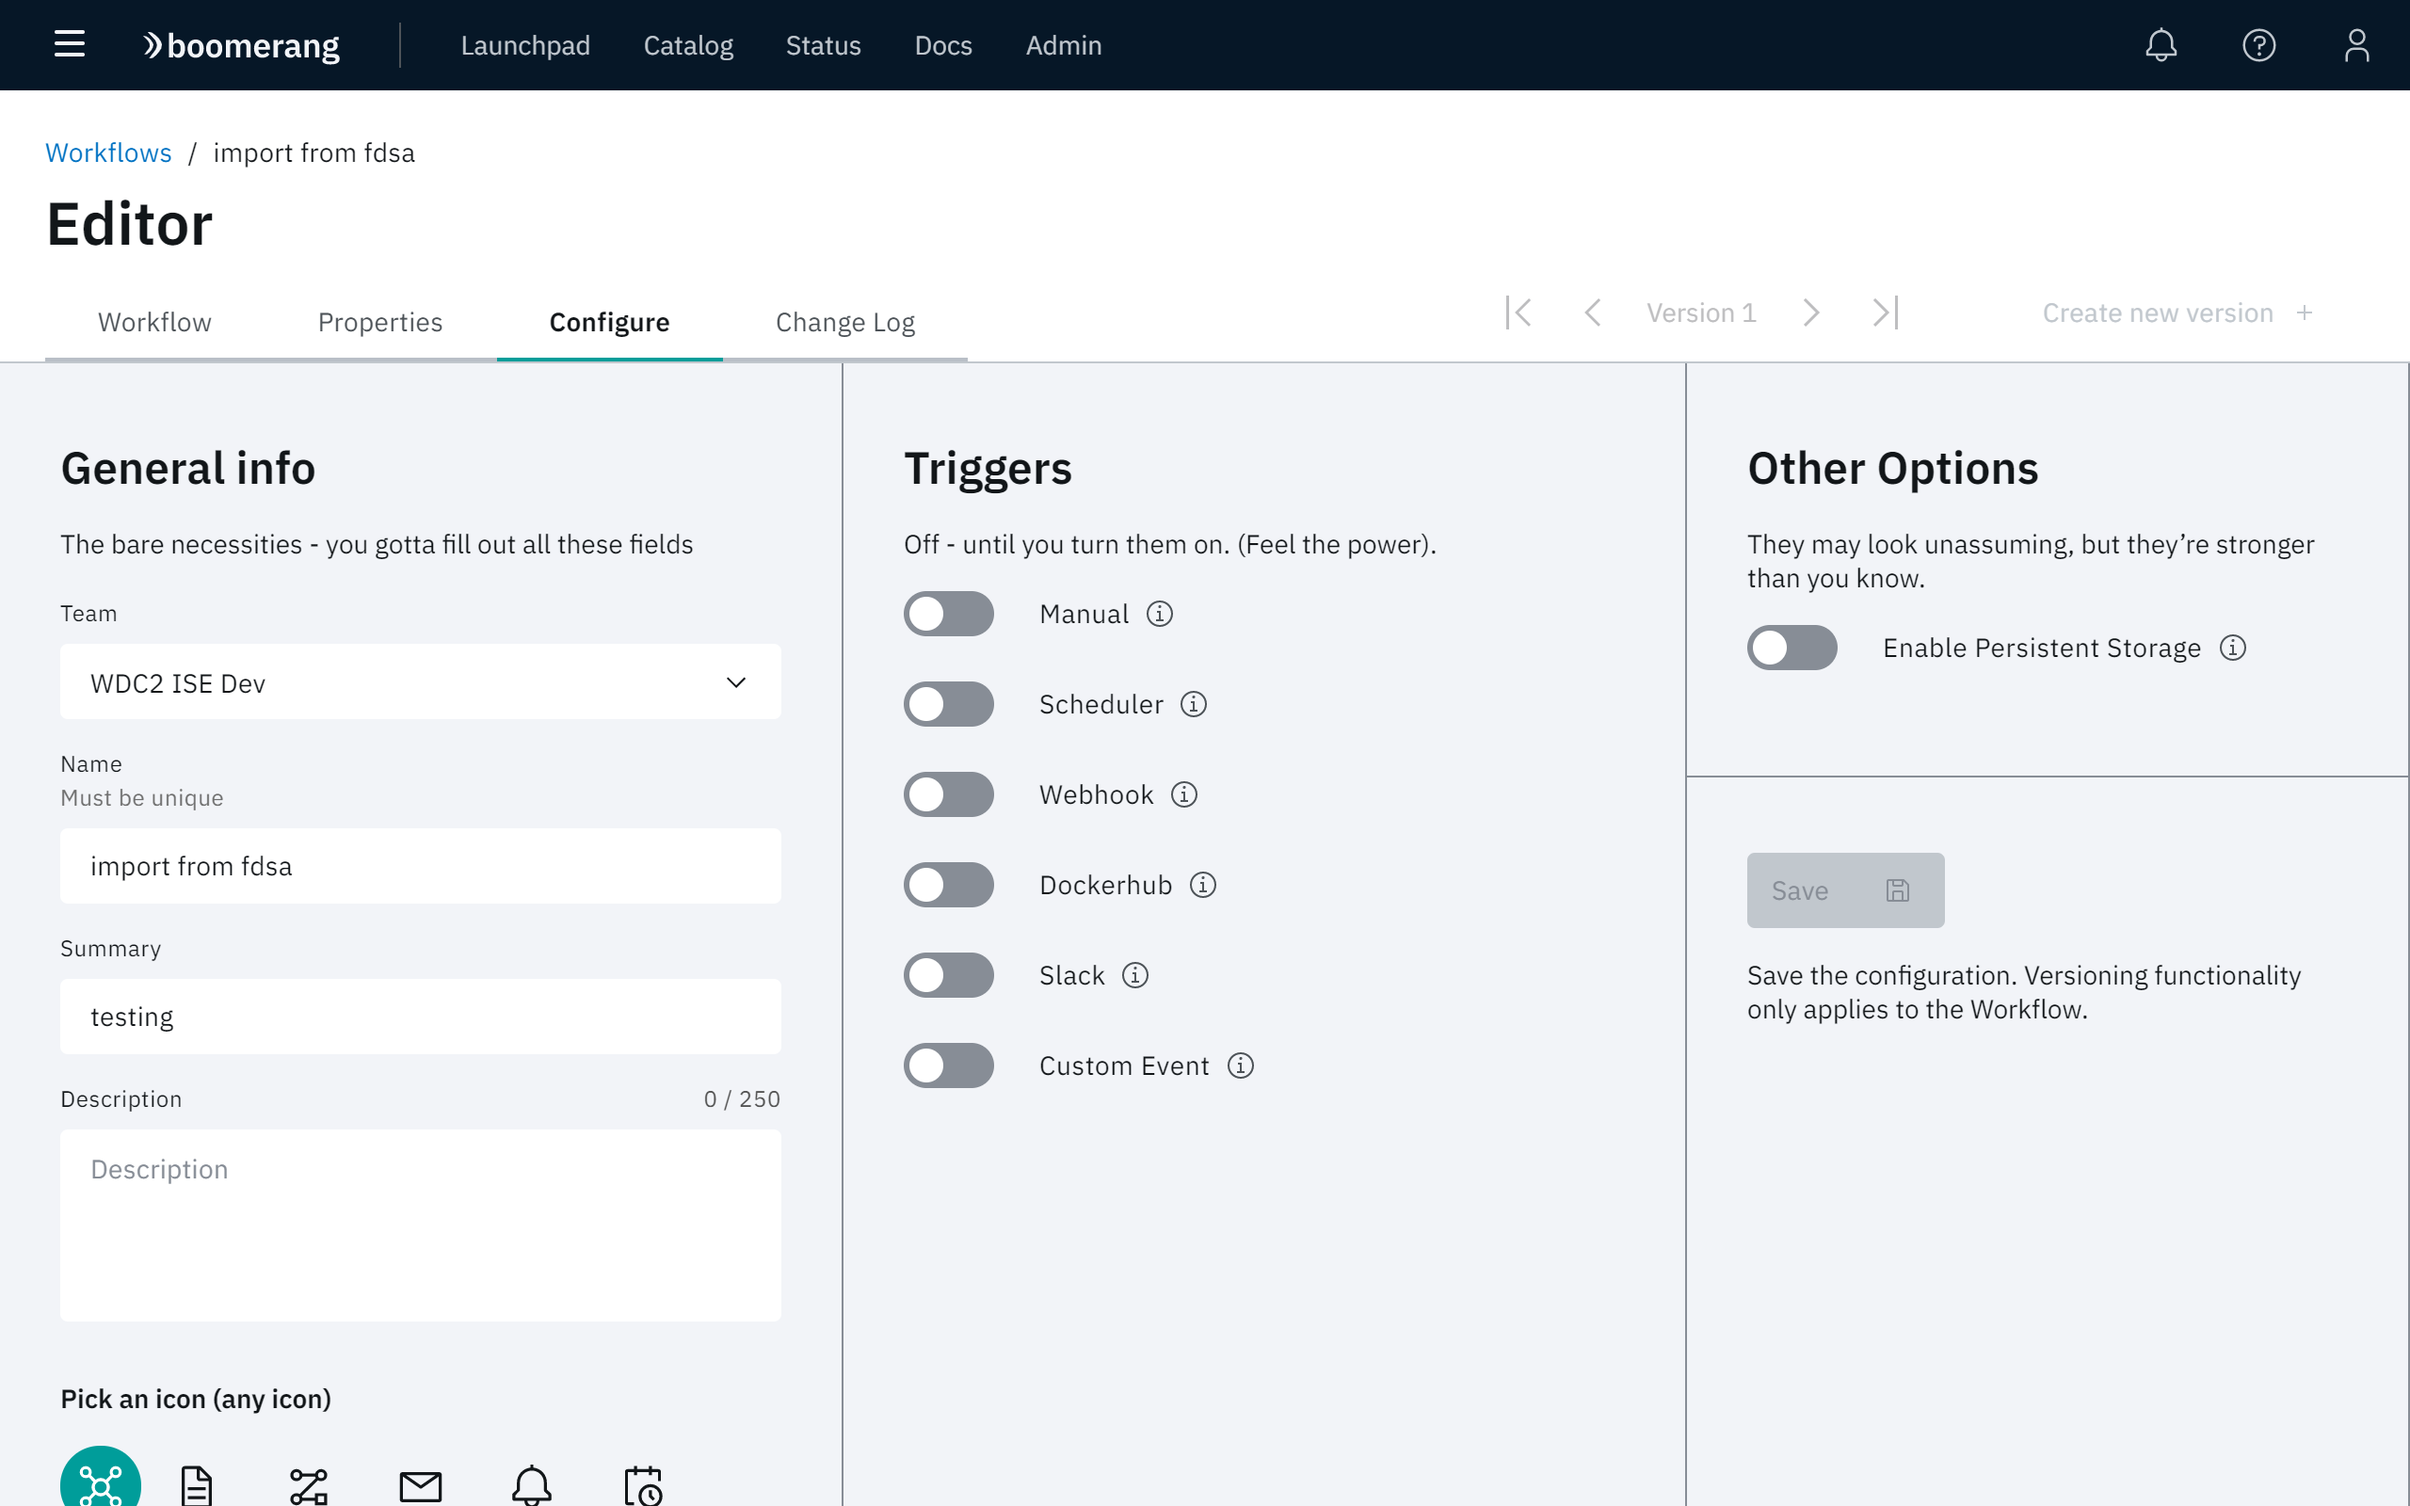
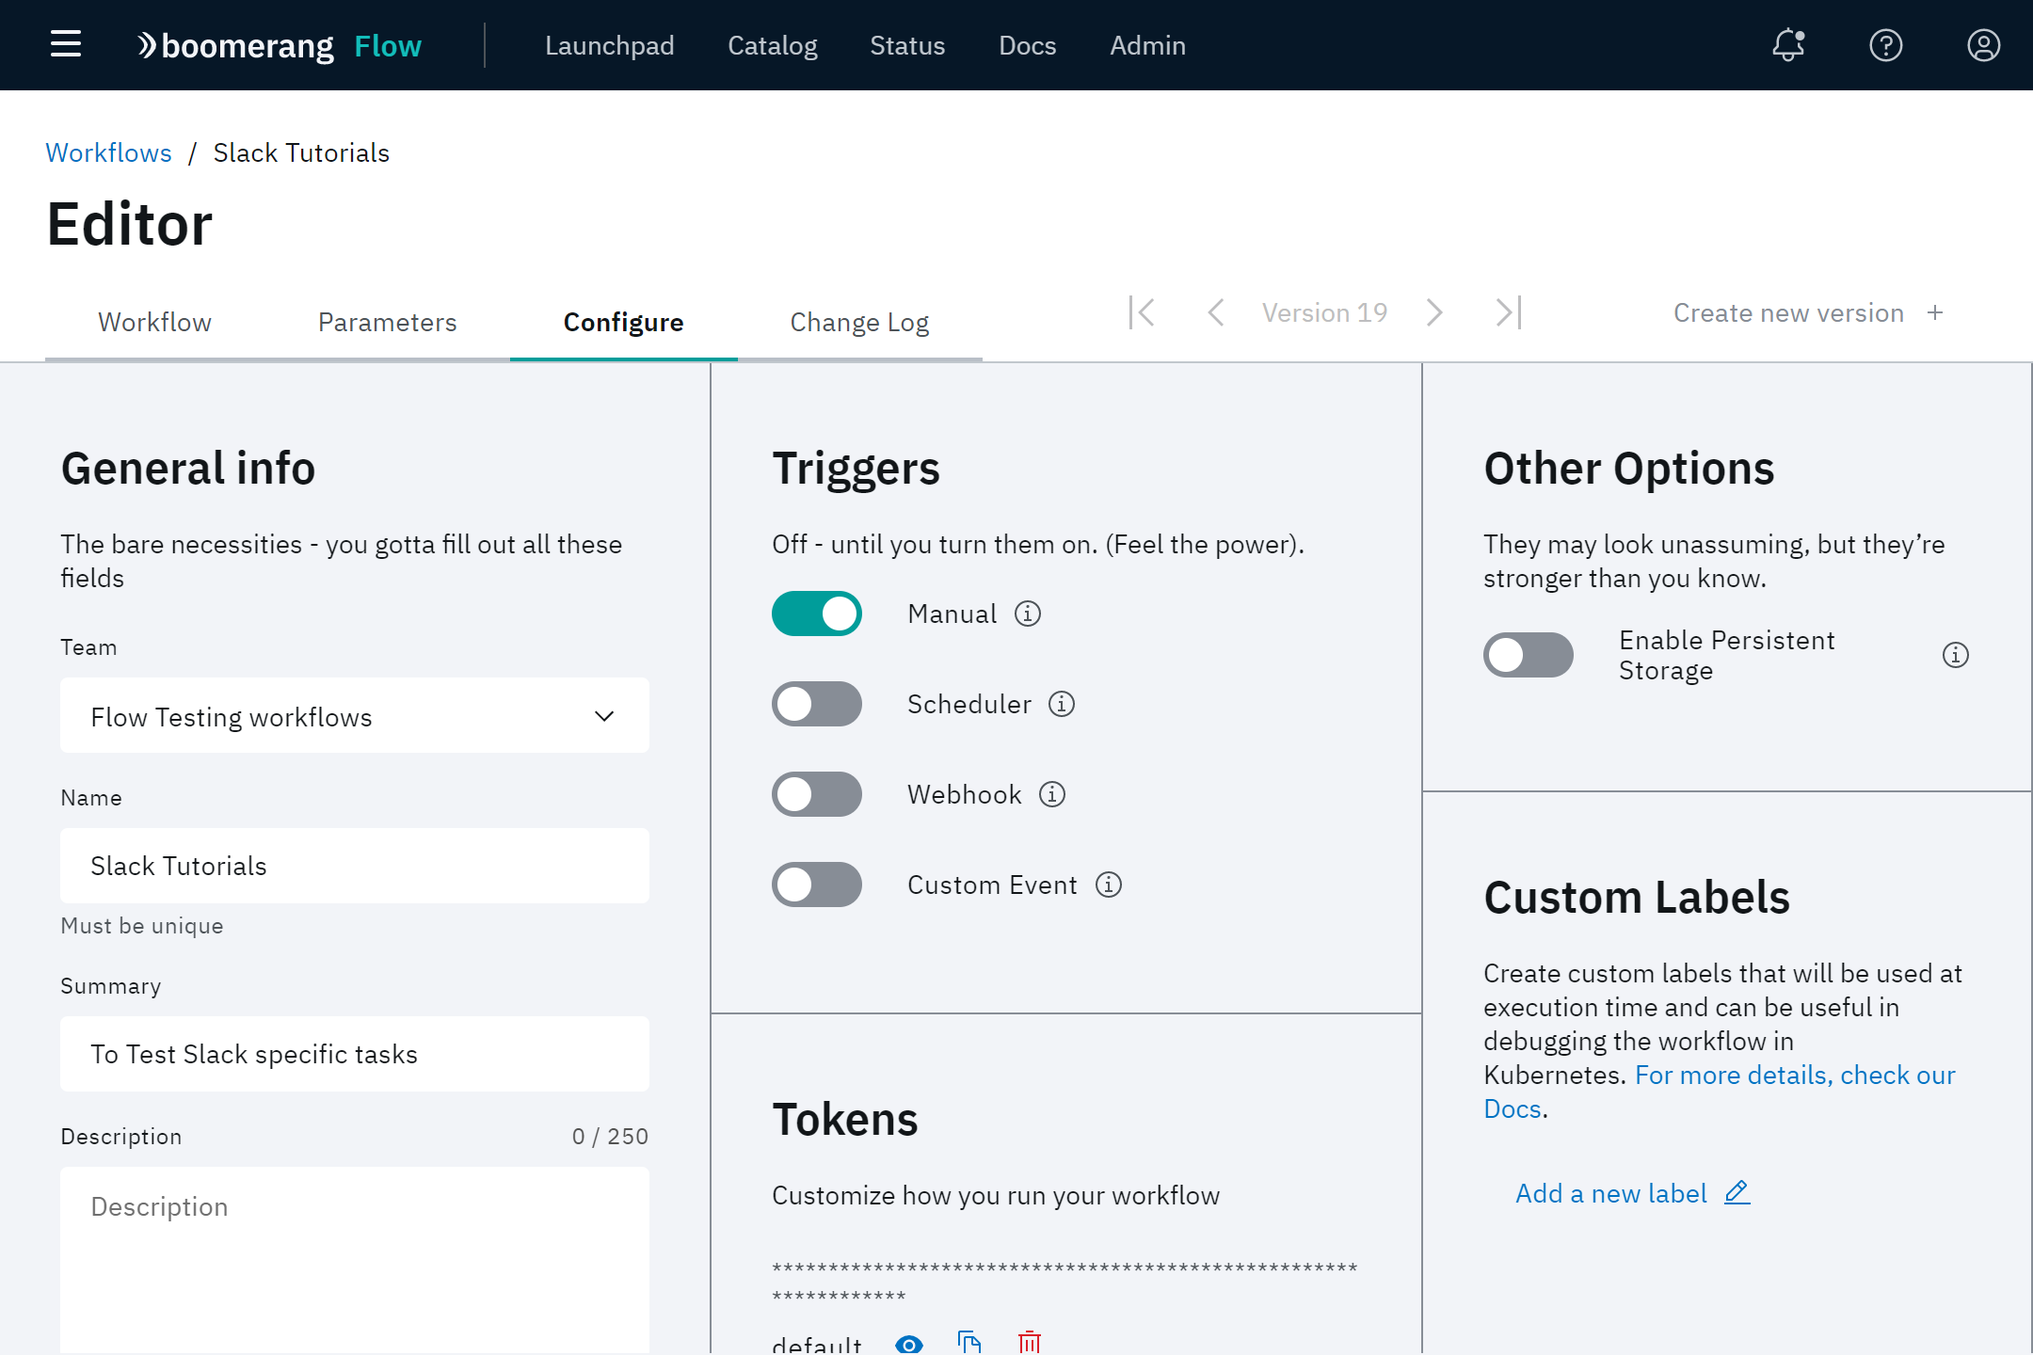
Merged PR#10 from 3.2 to 3.3 of Flow

diff --git a/content/boomerang-flow/3.3.0/how-to-guide/03.edit.md b/content/boomerang-flow/3.3.0/how-to-guide/03.edit.md
@@ -122,6 +122,19 @@ Enable persistent storage for the duration of the workflow. This allows you to s
 
 By enabling persistent storage, you will have a data drive (`/data`). Write the output from a task to that folder and you will be able to access that file from a subsequent task.
 
+### Custom Labels
+
+Create pairs of key/value labels to use accross our Flow app. These labels doesn't affect the workflows executions directly, but you can use them for many purposes as integrating with Kubernets to define attributes, organizing assets and, on future releases, filter you activities according to them.
+
+You can create as many labels as you want, as long as they follow the rules listed on [Kubernetes Docs](https://kubernetes.io/docs/concepts/overview/working-with-objects/labels/), but to summarize, here are some things you should have in mind:
+
+For Labels:
+- They have two segments: the prefix (optional) and name that are separated by a (`/`).
+- Prefix must be a DNS subdomain, in other words, could contains dots (`.`) and be no longer than 253 characters.
+- Name must begin with alphanumeric characters and can also contain dashes (-), underscores (_) and dots (.) and be no longer than 63 characters.
+
+For Values:
+- Like a Label name, must begin with alphanumeric characters and can also contain dashes (-), underscores (_) and dots (.) and be no longer than 63 characters.
 
 ## Change Log and Versioning
 
